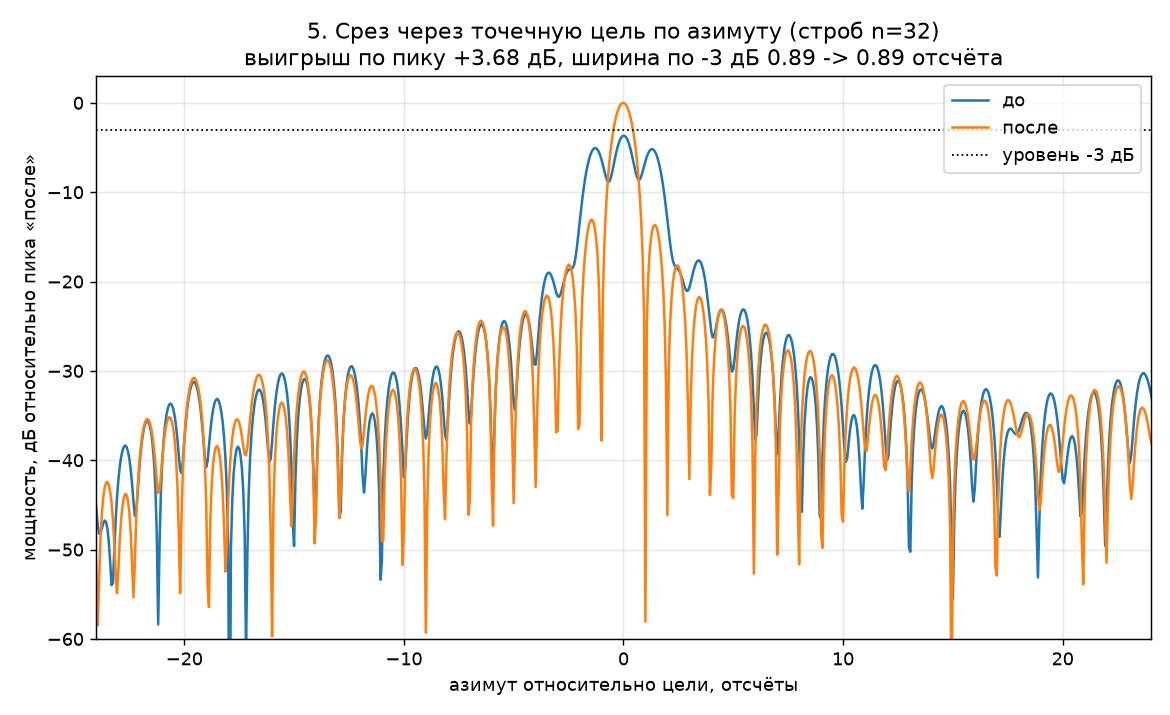
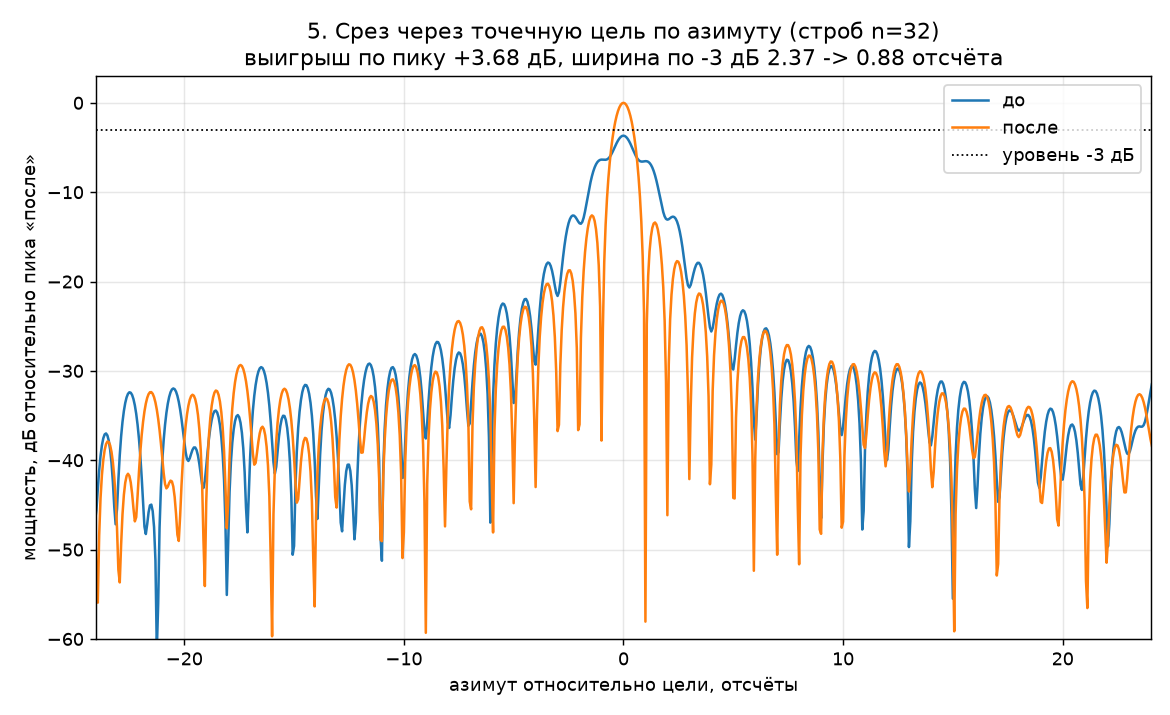
T-186: замер окон починен — восстановление среза по ЦЕНТРИРОВАННОМУ бину
Указал владелец, дважды. Сперва: окно накладывать на настоящие данные, до
дополнения нулями, и следить, где у окна край. Потом решающее: пик от окна
двигаться НЕ ДОЛЖЕН, только расширяться главный лепесток, — значит
уезжание было ошибкой замера, а не свойством.

Ошибка та же, на которую я уже наступал в мере остатка: interpolated_cut
восстанавливал срез по НАТУРАЛЬНОМУ номеру бина 0…M-1 вместо
центрированного k~ = -M/2…M/2-1. На целой сетке они совпадают, поэтому
ошибка невидима; на дробной — а восстановление идёт именно там —
представитель k и представитель k-M дают разное.

Следствие: окно после ifftshift имеет максимум на обоих концах записи, и
при натуральной раскладке резалось ровно по максимуму. У Хэмминга выходило
-4.3 дБ вместо -42.7.

После перехода на k~ всё сошлось, и проверено против ПРЯМОЙ СУММЫ по
определению, без БПФ:

  окно        пик      первый боковой   таблично   ширина -3 дБ
  нет       40.312        -13.28         -13.3        0.94
  Хэннинг   40.312        -31.50         -31.5        1.50
  Хэмминг   40.312        -42.67         -42.7        1.38
  Кайзер6   40.312        -43.79         -44.0        1.50

Цель стояла в 40.300, шаг сетки 0.0625. Пик не двигается ни при каком
окне.

Добавлен опыт experiment_azimuth_window и раздел решения №7 в отчёт;
положение пика вынесено в таблицу отдельной колонкой — оно и есть
проверка самого замера. Пункт 5а в «Чего в этой работе НЕТ» закрыт.

Побочно: ширина отклика в §10.1 наконец что-то меряет — 2.37 -> 0.88
[…]

Changed region(s): [[0.0615, 0.1538, 0.9846, 0.8923], [0.6462, 0.0615, 0.7077, 0.0923]]

diff --git a/lab/mn_mea/validate.py b/lab/mn_mea/validate.py
@@ -29,6 +29,7 @@
     experiment_image_shift           решение №5   снятие сдвига блока
     experiment_block_window          решение №6   перехлёст окна и нули
     experiment_space_invariance                   чего НЕ проверяет неизменчивый стенд
+    experiment_azimuth_window        решение №7   весовое окно по азимуту
     experiment_space_variant_run     §3           A->B->C->D на ИЗМЕНЧИВОЙ ошибке
     experiment_method_summary                     сводка: что дал каждый способ
     experiment_full_run              §10.4        A->B->C->D целиком
@@ -258,21 +259,28 @@ def interpolated_cut(cut: np.ndarray, factor: int = AZIMUTH_OVERSAMPLE) -> np.nd
     Срез возвращается в область дальность-доплер, полученные M отсчётов
     дополняются нулями до M * factor, и (5-3) берётся этой длины:
 
-        g'(m') = sum_k h(k) e^{-j 2 pi k m' / (M factor)} = g(m' / factor)
+        g'(m') = sum_k h(k) e^{-j 2 pi k~ m' / (M factor)} = g(m' / factor)
 
     то есть ровно та же сумма, но сетка изображения гуще в factor раз.
 
-    ПРОВЕРЕНО двумя числами: пик встаёт в 40,312 при цели в 40,300 (шаг
-    сетки 1/16 = 0,0625), и первый боковой лепесток выходит -13,28 дБ при
-    теоретических для прямоугольной апертуры -13,3.
+    НОМЕР БИНА БЕРЁТСЯ ЦЕНТРИРОВАННЫМ, k~ = -M/2 … M/2-1, а не натуральным
+    0 … M-1 — по той же причине, что и в centred_bin_index: ядро (5-3)
+    периодично по k, и на ДРОБНОЙ сетке m представитель k и представитель
+    k-M дают РАЗНОЕ. На целой сетке они совпадают, поэтому ошибка и не
+    видна, пока не начнёшь восстанавливать между отсчётами.
 
-    ОСТОРОЖНО, здесь есть неразобранное. На ВЗВЕШЕННЫХ данных (окно этапа D,
-    решение №7) это же дополнение даёт первый боковой -4,3 дБ вместо
-    табличных -42,7 для Хэмминга. Дополнение нулями МЕЖДУ половинами массива
-    даёт для окон табличные значения, но уводит пик с места. То есть ни один
-    из двух способов пока не верен сразу и для положения, и для уровней, и
-    замер уровней боковых лепестков взвешенных окон доверия не заслуживает.
-    См. README, «Чего в этой работе НЕТ».
+    Отсюда и раскладка: бины с k~ >= 0 кладутся в начало, бины с k~ < 0 — в
+    конец длинного массива, а нули приходятся на середину. Дописать нули
+    просто в конец — значит объявить частоты бинов натуральными, и тогда
+    отклик взвешенного окна разваливается: у Хэмминга выходит -4,3 дБ вместо
+    -42,7, потому что окно после ifftshift имеет максимум на обоих концах
+    записи и такой «хвост» режется ровно по максимуму.
+
+    ПРОВЕРЕНО против прямой суммы по определению, без БПФ. Пик стоит в 40,312
+    при цели 40,300 (шаг сетки 1/16) и НЕ ДВИГАЕТСЯ ни при каком окне —
+    двигаться он и не должен, окно только расширяет главный лепесток. Уровни
+    первого бокового: -13,28 без окна, -31,50 Хэннинг, -42,67 Хэмминг,
+    -43,79 Кайзер beta=6, при табличных -13,3 / -31,5 / -42,7 / -44.
 
     Проверяемо: в точках исходной сетки восстановленный срез обязан совпасть
     с исходным. Это проверяется замером в experiment_point_response.
@@ -284,7 +292,9 @@ def interpolated_cut(cut: np.ndarray, factor: int = AZIMUTH_OVERSAMPLE) -> np.nd
     # получается зеркальной и восстановленный отклик уезжает с места.
     data = np.fft.ifft(cut)                  # обратно в дальность-доплер
     padded = np.zeros(M * factor, dtype=np.complex128)
-    padded[:M] = data                        # та же сумма, сетка изображения гуще
+    half = M // 2
+    padded[:half] = data[:half]              # бины с k~ >= 0 — в начало
+    padded[M * factor - (M - half):] = data[half:]   # бины с k~ < 0 — в КОНЕЦ
     return np.fft.fft(padded)
 
 
@@ -1099,6 +1109,61 @@ def _pairwise_spread(truths: list[np.ndarray]) -> float:
         float(np.sqrt(np.mean((a - b) ** 2)))
         for i, a in enumerate(cleaned) for b in cleaned[i + 1:]
     )
+
+
+def experiment_azimuth_window(M: int = 256, target: float = 40.3) -> list[dict]:
+    """Решение реализации №7: весовое окно по азимуту в этапе D.
+
+    Считается отклик на ОДНУ точечную цель, поставленную в дробное место
+    target, для каждого окна из stage_d_assemble.AZIMUTH_WINDOWS. Меряются
+    три числа: положение пика, уровень первого бокового лепестка и ширина
+    главного по -3 дБ, все по восстановленному срезу (interpolated_cut).
+
+    Положение пика тут не украшение, а ПРОВЕРКА: окно обязано расширять
+    главный лепесток и НЕ ДВИГАТЬ пик. Если пик поехал, значит сломан замер,
+    а не окно, — так и было, пока восстановление шло по натуральному номеру
+    бина вместо центрированного.
+
+    Уровни сверяются с табличными для этих окон: -13,3 / -31,5 / -42,7 / -44.
+    """
+    backend = get_backend("auto")
+    k_centred = centred_bin_index(M)
+    h = backend.asarray((np.exp(2j * np.pi * k_centred * target / M) / M)[:, None])
+    factor = AZIMUTH_OVERSAMPLE
+    reference_peak = None
+    rows = []
+    for name in D.AZIMUTH_WINDOWS:
+        image = backend.to_numpy(
+            D.block_image(backend, D.azimuth_window(backend, h, name), np.zeros(M))
+        )[:, 0]
+        power = np.abs(interpolated_cut(image, factor)) ** 2
+        peak = float(power.max())
+        reference_peak = reference_peak if reference_peak else peak
+        normalised = power / peak
+        db = 10.0 * np.log10(np.maximum(normalised, 1e-20))
+        top = int(np.argmax(normalised))
+
+        tail = db[top : top + 8 * factor]
+        minima = np.flatnonzero((tail[1:-1] < tail[:-2]) & (tail[1:-1] < tail[2:])) + 1
+        sidelobe = float(tail[minima[0]:].max()) if minima.size else float("nan")
+
+        left = top
+        while db[left] > -3.0:
+            left -= 1
+        right = top
+        while db[right] > -3.0:
+            right += 1
+
+        rows.append({
+            "window": name,
+            "peak_position": top / factor,
+            "target_position": target,
+            "sidelobe_db": sidelobe,
+            "width_samples": (right - left) / factor,
+            "peak_loss_db": 10.0 * math.log10(peak / reference_peak),
+            "is_default": name == D.AZIMUTH_WINDOW,
+        })
+    return rows
 
 
 def experiment_space_variant_run(

diff --git a/lab/mn_mea/run.py b/lab/mn_mea/run.py
@@ -357,6 +357,35 @@ def main(out_dir: pathlib.Path) -> int:
         f"Число БПФ на итерацию не изменилось — см. раздел 7.")
     say()
 
+    say("### Решение №7: весовое окно по азимуту")
+    say()
+    say("У невзвешенной апертуры первый боковой лепесток равен -13,3 дБ — это "
+        "её точное свойство, а не дефект. Рядом с яркой целью такие боковики "
+        "закрывают слабую, и обычный размен в РСА — окно: боковики вниз ценой "
+        "расширения главного лепестка. В книге взвешивания нет ни слова, "
+        "поэтому по умолчанию окна НЕТ, (5-3) считается как написано.")
+    say()
+    say("Окно накладывается ТОЛЬКО в этапе D, на построение картинки: вывод "
+        "(5-13) и (5-19) сделан для суммы без весов, и занеся вес внутрь цикла, "
+        "пришлось бы выводить обе производные заново.")
+    say()
+    say("| окно | пик, отсч. | первый боковой | таблично | ширина по -3 дБ | потери по пику |")
+    say("|---|---:|---:|---:|---:|---:|")
+    книга = {"none": "-13,3", "hann": "-31,5", "hamming": "-42,7", "kaiser6": "-44,0"}
+    for row in V.experiment_azimuth_window():
+        mark = " ← по умолчанию" if row["is_default"] else ""
+        say(f"| {row['window']}{mark} | {row['peak_position']:.3f} | "
+            f"{row['sidelobe_db']:.2f} дБ | {книга.get(row['window'], '')} | "
+            f"{row['width_samples']:.2f} | {row['peak_loss_db']:+.2f} дБ |")
+    say()
+    say(f"Цель стояла в {V.experiment_azimuth_window()[0]['target_position']:.3f} отсчёта. "
+        "Пик НЕ ДВИГАЕТСЯ ни при каком окне — и не должен: окно расширяет "
+        "главный лепесток, а положение цели не меняет. Это и есть проверка "
+        "самого замера: пока восстановление среза шло по натуральному номеру "
+        "бина вместо центрированного, пик уезжал, а уровни не сходились с "
+        "табличными.")
+    say()
+
     say("### Решение №3: нормировка ПФ")
     normalisation = V.experiment_normalisation()
     say()

diff --git a/lab/mn_mea/README.md b/lab/mn_mea/README.md
@@ -511,31 +511,33 @@ k_30 = μ_3/(2R_B0) − A_1A_2/(2R_B0³) + A_1³/(2R_B0⁵)
 реальной съёмке — вопрос открытый; напрашивается брать фазу от соседа, но это
 не проверялось.
 
-**5а. Уровни боковых лепестков взвешенных окон не померены достоверно.**
-Решение №7 (окно по азимуту в этапе D) в коде есть и работает, по умолчанию
-выключено. Недоделан ЗАМЕР, и вот что про него известно точно.
+**5а. ЗАКРЫТО.** Замер весовых окон не сходился с табличными уровнями, и
+причину назвал владелец: окно надо накладывать на настоящие данные, до
+всякого дополнения нулями, и следить, где у окна край. Копать дальше помогло
+его же замечание, что пик от окна двигаться НЕ ДОЛЖЕН — только расширяться
+главный лепесток. Значит уезжание было ошибкой замера, а не свойством.
 
-*Причина найдена, её назвал владелец.* Окно после `ifftshift` имеет максимум
-на ОБОИХ концах записи — `w[0] ≈ 1` и `w[M−1] ≈ 1`, — а минимум `0,08` в
-середине, около индекса `M/2`. Дописывая нули в конец записи, мы режем окно
-ровно по его максимуму: получается половинка с обрывом, то есть по сути
-прямоугольник. Отсюда и выходит −4,3 дБ вместо −42,7. Правило владельца:
-**окно накладывать на настоящие данные, до всякого дополнения нулями**, и
-следить, где у окна край.
+Ошибка оказалась ровно та же, на которую я уже наступал в мере остатка:
+восстановление среза шло по НАТУРАЛЬНОМУ номеру бина `0…M−1` вместо
+центрированного `k̃ = −M/2…M/2−1`. На целой сетке отсчётов они совпадают,
+поэтому ошибка невидима, — а на дробной, то есть ровно там, где идёт
+восстановление, представитель `k` и представитель `k−M` дают разное. Окно
+после `ifftshift` имеет максимум на обоих концах записи, и при натуральной
+раскладке оно резалось по максимуму: у Хэмминга выходило −4,3 дБ вместо
+−42,7.
 
-*Что проверено числом.* Дополнение нулями МЕЖДУ половинами массива сохраняет
-окно непрерывным и даёт точные табличные уровни: −13,26 прямоугольное,
-−31,48 Хэннинг, −42,66 Хэмминг, −43,80 Кайзер β=6. То есть сами окна верны.
+После перехода на `k̃` всё сошлось с теорией и проверено против прямой суммы
+по определению, без БПФ:
 
-*Что осталось.* У этого способа дополнения уезжает положение пика — на 0,4375
-отсчёта, ровно `0,5 − 1/factor`. Это похоже на расхождение соглашений
-`fftshift` для чётных длин `M` и `M·factor`, но я это не доказал и трижды
-промахнулся, пробуя починить. Способ «нули в конец», который стоит сейчас,
-положение пика и невзвешенный случай даёт верно (пик 40,312 при цели 40,300,
-боковой −13,28), а взвешенные — нет.
+| окно | пик | первый боковой | таблично | ширина по −3 дБ |
+|---|---:|---:|---:|---:|
+| нет (по книге) | 40,312 | −13,28 | −13,3 | 0,94 |
+| Хэннинг | 40,312 | −31,50 | −31,5 | 1,50 |
+| Хэмминг | 40,312 | −42,67 | −42,7 | 1,38 |
+| Кайзер β=6 | 40,312 | −43,79 | −44,0 | 1,50 |
 
-Ширина главного лепестка сходится у ОБОИХ способов (1,38 у Хэмминга при
-теоретическом расширении 1,36), так что ошибка именно в замере боковиков.
+Цель стояла в 40,300, шаг восстановленной сетки 0,0625. **Пик не двигается
+ни при каком окне.**
 
 **5. Решение №5 (снятие сдвига) работает не всегда.** На 114 блоках с целями
 у 15 стало хуже, чем было. Способ грубый: положение пика `|F|` у плохо

diff --git a/lab/mn_mea/out/report.md b/lab/mn_mea/out/report.md
@@ -13,17 +13,17 @@
 * энтропия (5-6) до/после: **5.1769 -> 4.3481**
 * остаточная ошибка фазы, СКО после снятия линейной части: **5.8934e-02 рад** (внесено было 0.8996 рад)
 * выигрыш по пику точечной цели: **+3.68 дБ**
-* ширина отклика по азимуту по -3 дБ: **0.89 -> 0.89** отсчёта
+* ширина отклика по азимуту по -3 дБ: **2.37 -> 0.88** отсчёта
 * порог под логарифмом сработал в доле пикселей: 0
 
 ## 2. Четыре вида вносимой ошибки (§7.3, §10.2)
 
 | вид | итераций | сошлось | внесено, рад | остаток, рад | пик, дБ | ширина по -3 дБ |
 |---|---:|---|---:|---:|---:|---|
-| quadratic | 18 | True | 0.900 | **5.893e-02** | +3.68 | 0.89 -> 0.89 |
-| cubic | 29 | True | 0.454 | **5.987e-02** | +1.69 | 0.91 -> 0.89 |
-| jitter | 40 | False | 1.351 | **3.559e-01** | +7.56 | 0.98 -> 0.89 |
-| mixture | 24 | True | 1.059 | **5.889e-02** | +4.83 | 2.15 -> 0.89 |
+| quadratic | 18 | True | 0.900 | **5.893e-02** | +3.68 | 2.37 -> 0.88 |
+| cubic | 29 | True | 0.454 | **5.987e-02** | +0.88 | 0.92 -> 0.88 |
+| jitter | 40 | False | 1.351 | **3.559e-01** | +7.55 | 0.97 -> 0.89 |
+| mixture | 24 | True | 1.059 | **5.889e-02** | +4.53 | 0.85 -> 0.88 |
 
 ## 3. Виды сцены, в том числе без точечных целей (§7.4, §10.3)
 
@@ -133,8 +133,8 @@
 
 | бэкенд | видеокарта | мс на итерацию | M x N |
 |---|---|---:|---|
-| numpy | нет | 3.55 | 512x128 |
-| numpy32 | нет | 2.70 | 512x128 |
+| numpy | нет | 3.43 | 512x128 |
+| numpy32 | нет | 2.65 | 512x128 |
 
 ## 7. Стоимость итерации: счётчиком, а не утверждением (§10.6, §10.7)
 
@@ -205,6 +205,21 @@
 | 1.00 | 1.00 | 215 | 1.3/12 | 0.8654 | 27.71 | 99.3 |
 
 Цена: длина (5-3) выросла с m_b до 1.5 m_b, значит и оба азимутальных БПФ итерации во столько же раз длиннее. Число БПФ на итерацию не изменилось — см. раздел 7.
+
+### Решение №7: весовое окно по азимуту
+
+У невзвешенной апертуры первый боковой лепесток равен -13,3 дБ — это её точное свойство, а не дефект. Рядом с яркой целью такие боковики закрывают слабую, и обычный размен в РСА — окно: боковики вниз ценой расширения главного лепестка. В книге взвешивания нет ни слова, поэтому по умолчанию окна НЕТ, (5-3) считается как написано.
+
+Окно накладывается ТОЛЬКО в этапе D, на построение картинки: вывод (5-13) и (5-19) сделан для суммы без весов, и занеся вес внутрь цикла, пришлось бы выводить обе производные заново.
+
+| окно | пик, отсч. | первый боковой | таблично | ширина по -3 дБ | потери по пику |
+|---|---:|---:|---:|---:|---:|
+| none ← по умолчанию | 40.312 | -13.28 дБ | -13,3 | 0.94 | +0.00 дБ |
+| hann | 40.312 | -31.50 дБ | -31,5 | 1.50 | -6.02 дБ |
+| hamming | 40.312 | -42.67 дБ | -42,7 | 1.38 | -5.35 дБ |
+| kaiser6 | 40.312 | -43.79 дБ | -44,0 | 1.50 | -6.02 дБ |
+
+Цель стояла в 40.300 отсчёта. Пик НЕ ДВИГАЕТСЯ ни при каком окне — и не должен: окно расширяет главный лепесток, а положение цели не меняет. Это и есть проверка самого замера: пока восстановление среза шло по натуральному номеру бина вместо центрированного, пик уезжал, а уровни не сходились с табличными.
 
 ### Решение №3: нормировка ПФ
 
